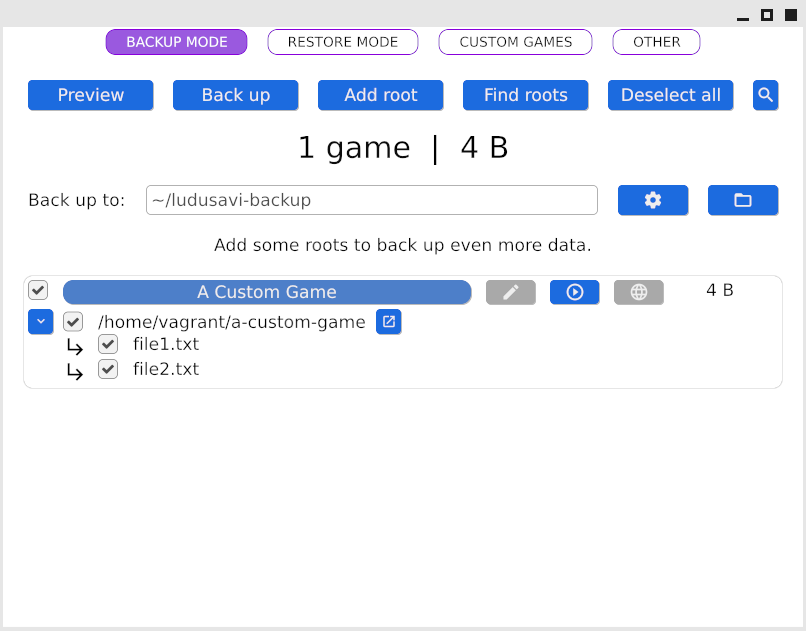
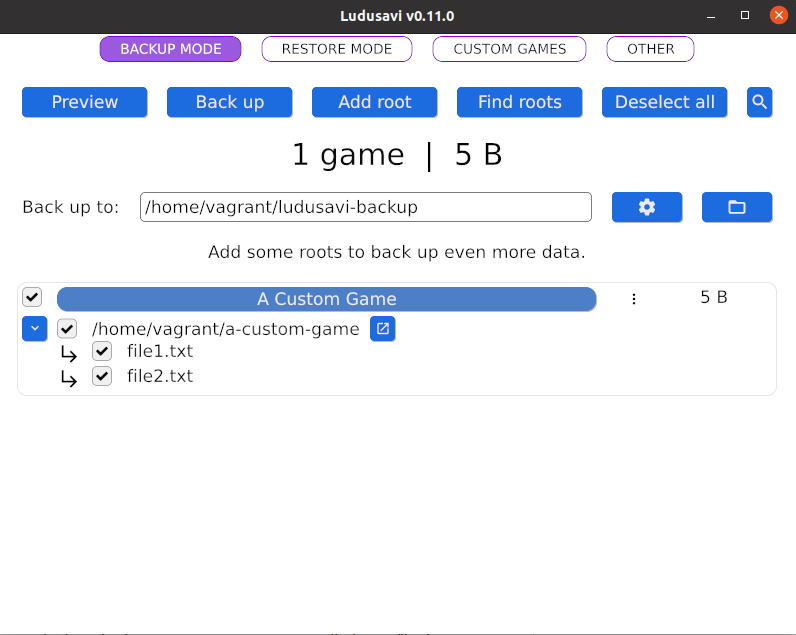
Release v0.12.0

Changed region(s): [[0.0, 0.0, 1.0, 1.0], [0.0, 0.3011, 0.1508, 0.3312], [0.8744, 0.4517, 0.9347, 0.4818]]

diff --git a/README.md b/README.md
@@ -102,6 +102,9 @@ If you are on Mac:
 
   If you do a preview, then Ludusavi will use that list of games for the next
   backup, so that the next backup doesn't have to do another full scan.
+  It will also remember these games the next time you open the program
+  so that you can selectively preview just a few of them, if you like,
+  before or instead of running a full scan.
 * The gear icon will reveal some additional options:
 
   * You can set a number of full and differential backups to keep.
@@ -156,14 +159,13 @@ If you are on Mac:
   (when all games are selected) or the `select all` button (when at least
   one game is deselected) to quickly toggle all of them at once.
   Ludusavi will remember your most recent checkbox settings.
-* Next to each game's name is an edit icon. Clicking this will create a custom
-  game entry with the same name, allowing you to override that game's data.
-  See the [custom games](#custom-games) section for more information.
+* Next to each game's name is a menu with actions to perform on it.
+  You can also use keyboard shortcuts to replace the menu with some
+  specific action shortcuts:
 
-  The play icon will trigger an on-demand backup for that specific game.
-
-  There is also a globe icon, which will open the game's PCGamingWiki article
-  so that you can quickly double check or update its information if needed.
+  * preview: shift
+  * backup/restore: ctrl (Mac: cmd)
+  * backup/restore without confirmation: ctrl + alt (Mac: cmd + option)
 * You can click the search icon and enter some text to just see games with
   matching names. Note that this only affects which games you see in the list,
   but Ludusavi will still back up the full set of games. This also provides
@@ -251,7 +253,7 @@ Run `ludusavi --help` for the full usage information.
 
 CLI mode defaults to a human-readable format, but you can switch to a
 machine-readable JSON format with the `--api` flag. In that case, the output
-will have the following structure:
+will have the following structure for the `backup`/`restore` commands:
 
 * `errors` (optional, map):
   * `someGamesFailed` (optional, boolean): Whether any games failed.
@@ -288,8 +290,13 @@ will have the following structure:
         * `duplicatedBy` (optional, array of strings): Any other games that
           also have the same registry path.
 
+The `backups` command is similar, but without `overall`, and with each game containing
+`{"backups": [ {"name": <string>, "when": <string>} ]}`
+
 Note that, in some error conditions, there may not be any JSON output,
 so you should check if stdout was blank before trying to parse it.
+If the command line input cannot be parsed, then the output will not be
+in a stable format.
 
 Example:
 
@@ -363,6 +370,8 @@ Here are the available settings (all are required unless otherwise noted):
 
   Experimental options that currently have graphical display issues:
   `ar-SA` (Arabic), `zh-Hans` (Simplified Chinese).
+* `theme` (string, optional): Visual theme. Valid options:
+  `light` (default), `dark`.
 * `roots` (list):
   * Each entry in the list should be a map with these fields:
     * `path` (string): Where the root is located on your system.

diff --git a/CONTRIBUTING.md b/CONTRIBUTING.md
@@ -63,7 +63,7 @@ pip install aiohttp toml
 rm -rf dist
 mkdir dist
 export VERSION=$(cargo pkgid | cut -d# -f2 | cut -d: -f2)
-cargo lichking bundle --file dist/ludusavi-v0.11.0-legal.txt
+cargo lichking bundle --file dist/ludusavi-v$VERSION-legal.txt
 sed -i -E 's/C:\\Users\\[^\\]+/~/g' dist/ludusavi-v$VERSION-legal.txt
 ```
 

diff --git a/CHANGELOG.md b/CHANGELOG.md
@@ -1,4 +1,4 @@
-## Unreleased
+## v0.12.0 (2022-08-31)
 
 * Added:
   * GUI: Dark theme.
